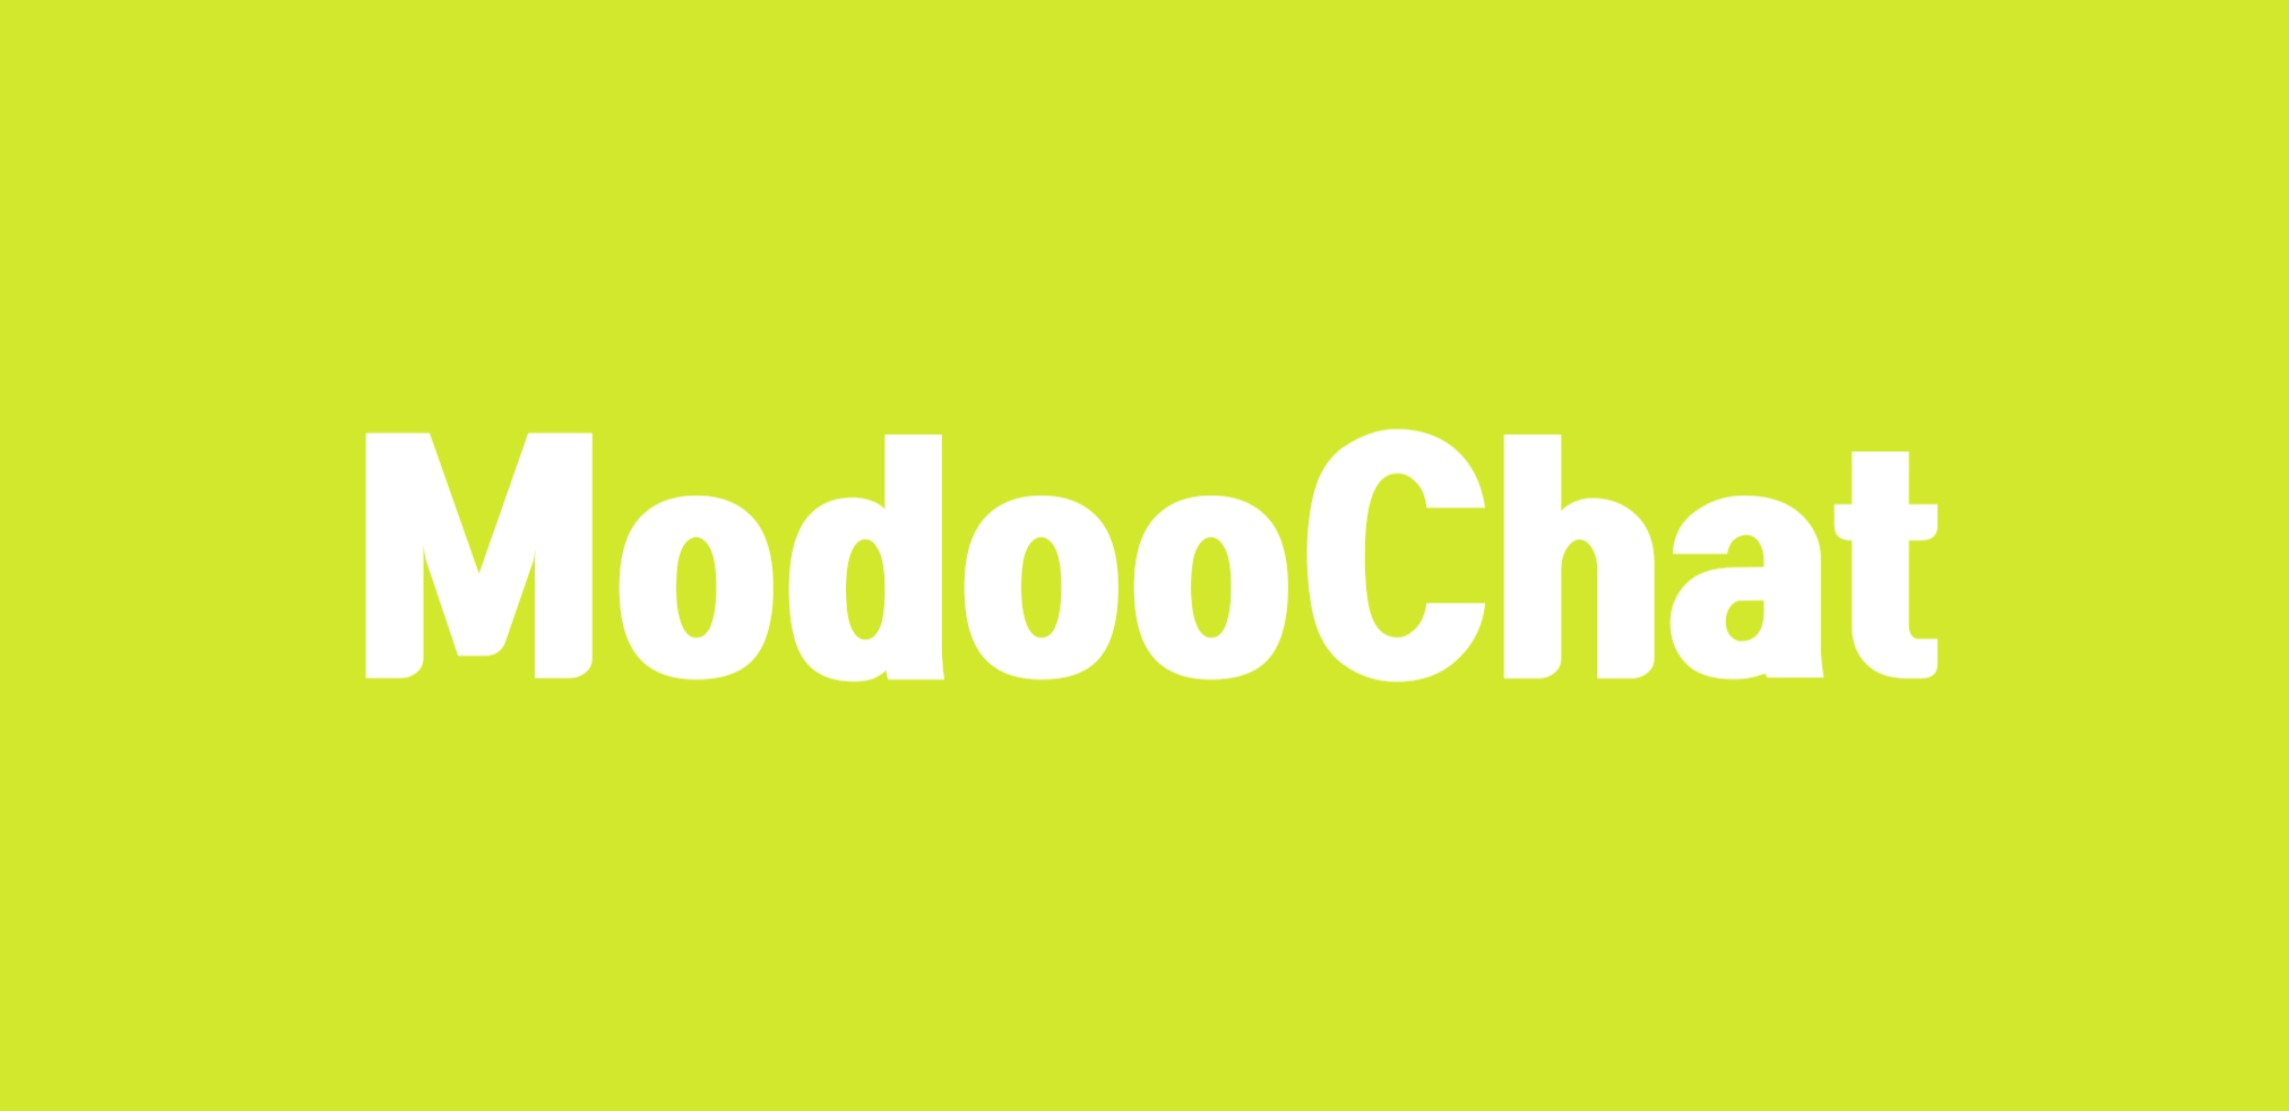
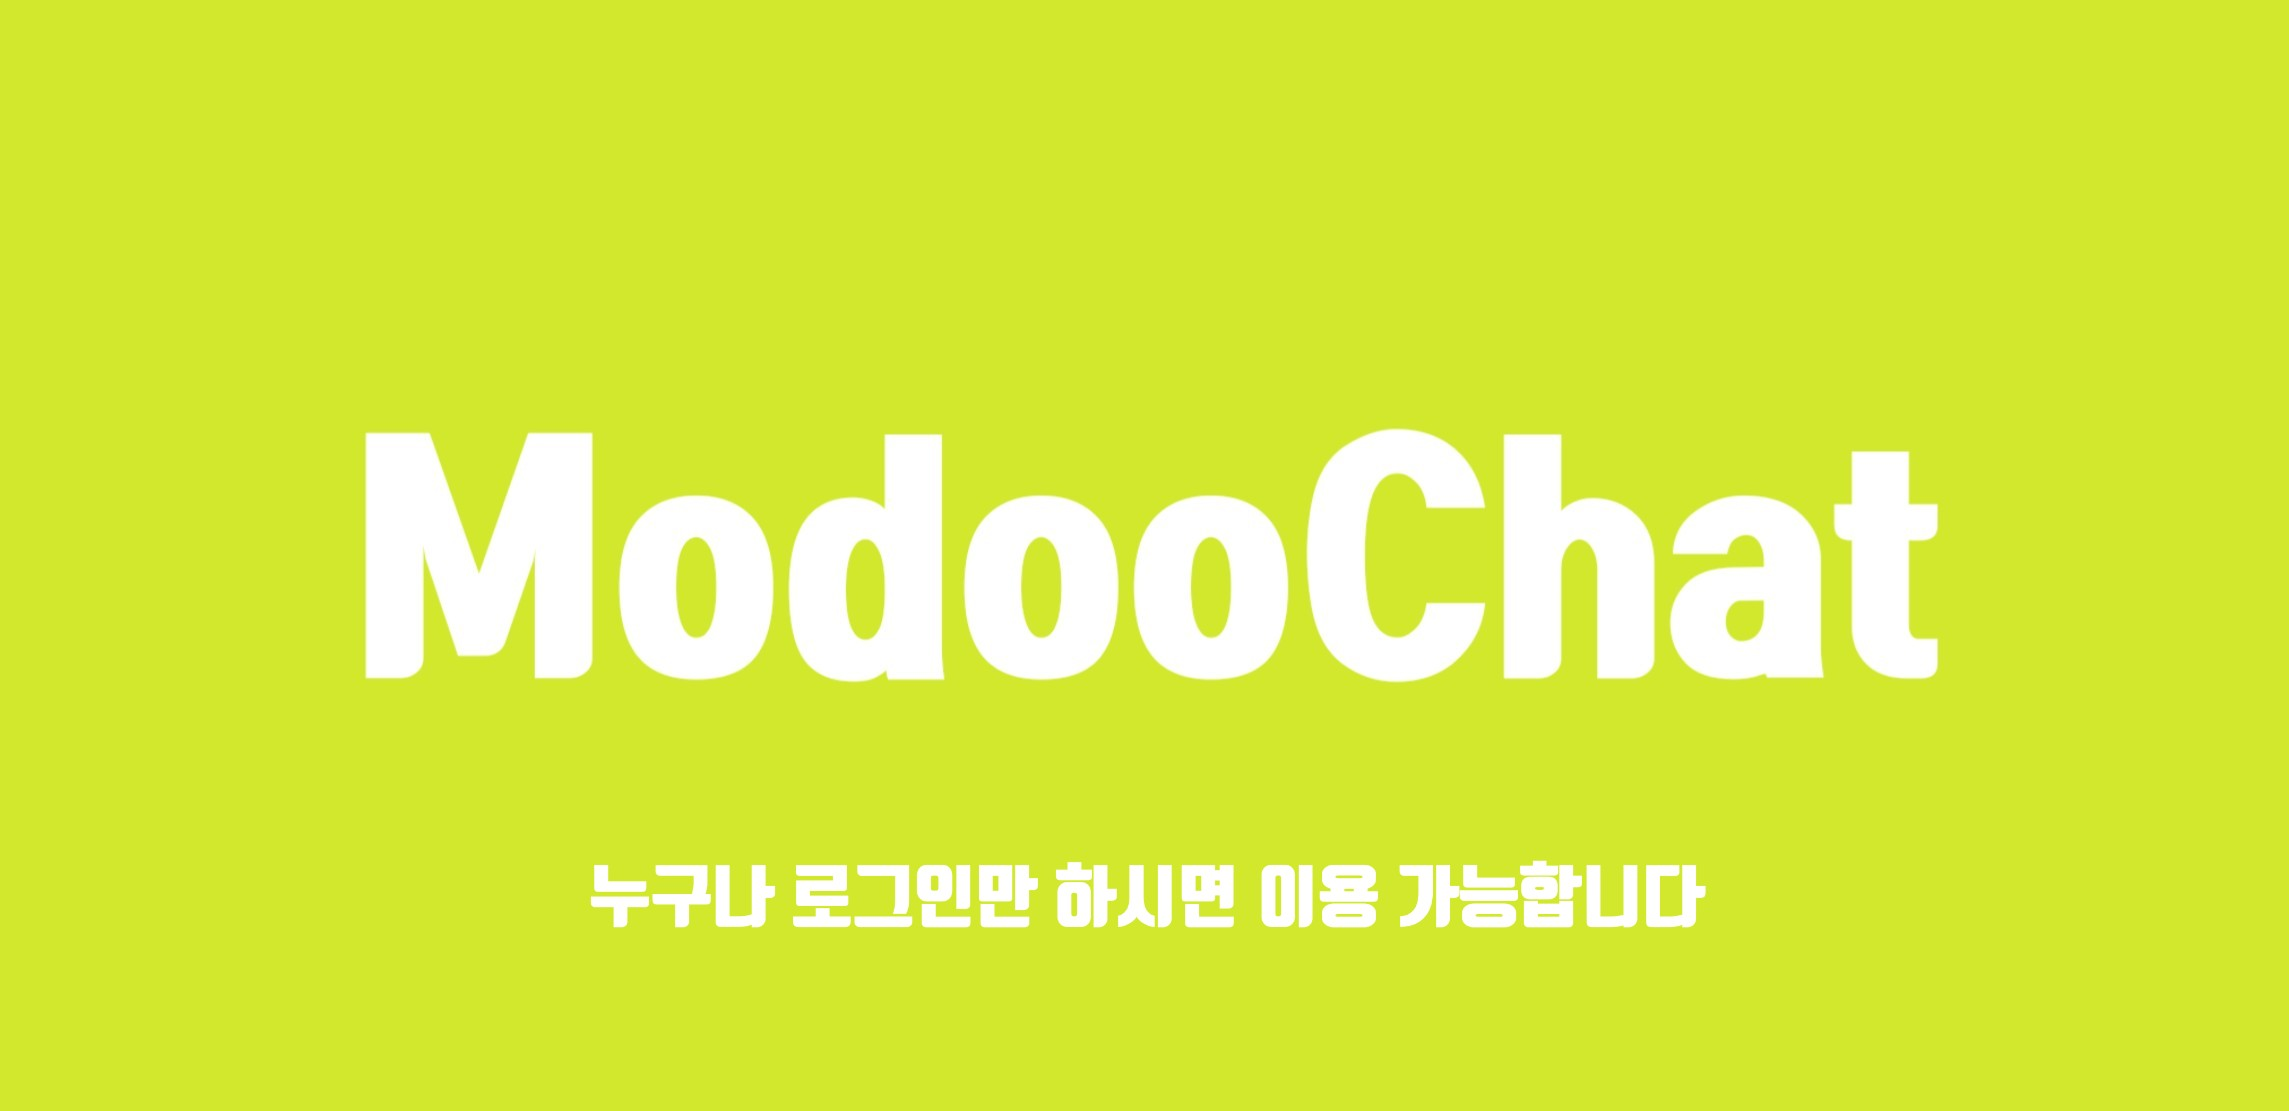
Add files via upload

Changed region(s): [[0.2481, 0.7651, 0.7444, 0.8569]]

diff --git a/main.html b/main.html
@@ -10,10 +10,18 @@
     height: 600px;
     background-image: url(tiitle.jpg);
     background-size: 50% 50%;
-    background-repeat:  no-repeat;
+    background-repeat: no-repeat;
+    background-color: red
+    background-color: #ff0000
     
     "></div></a>
+<p>
+<form>
 
+ID  : <input type = "text"><br>
+Passwd : <input type = "text>
+
+</form>
     <div id="disqus_thread"></div>
   <script>
 
